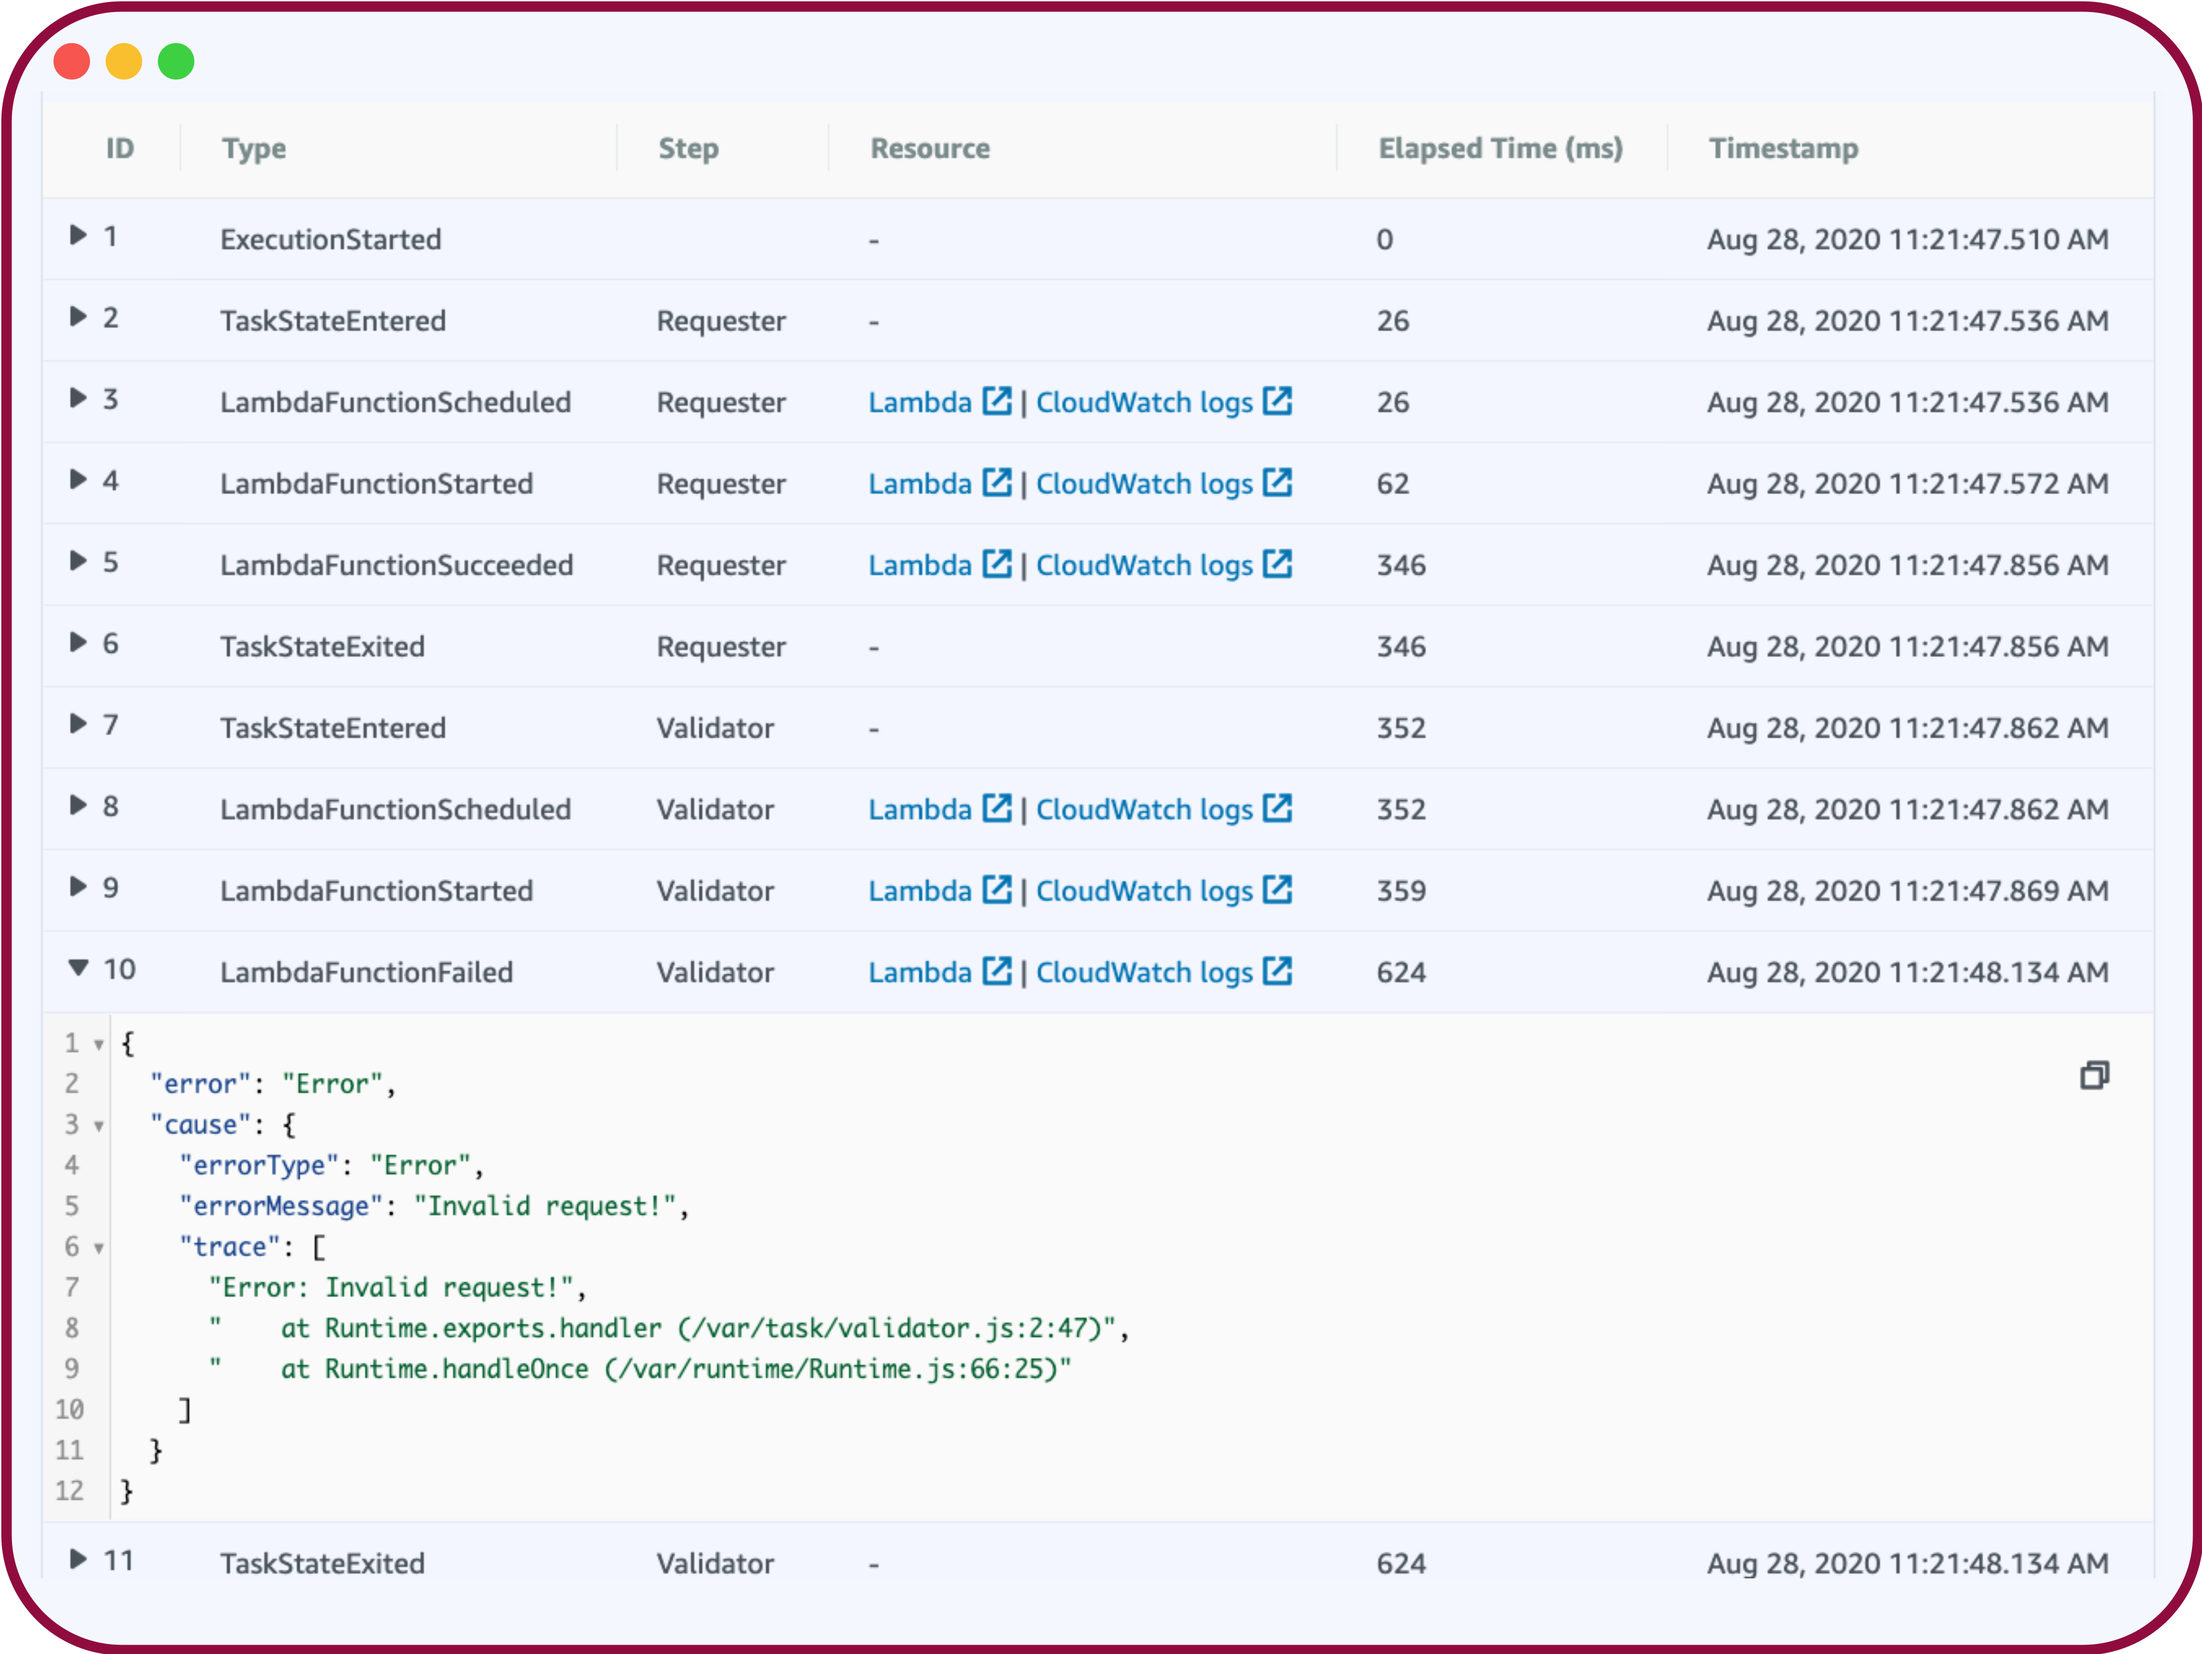
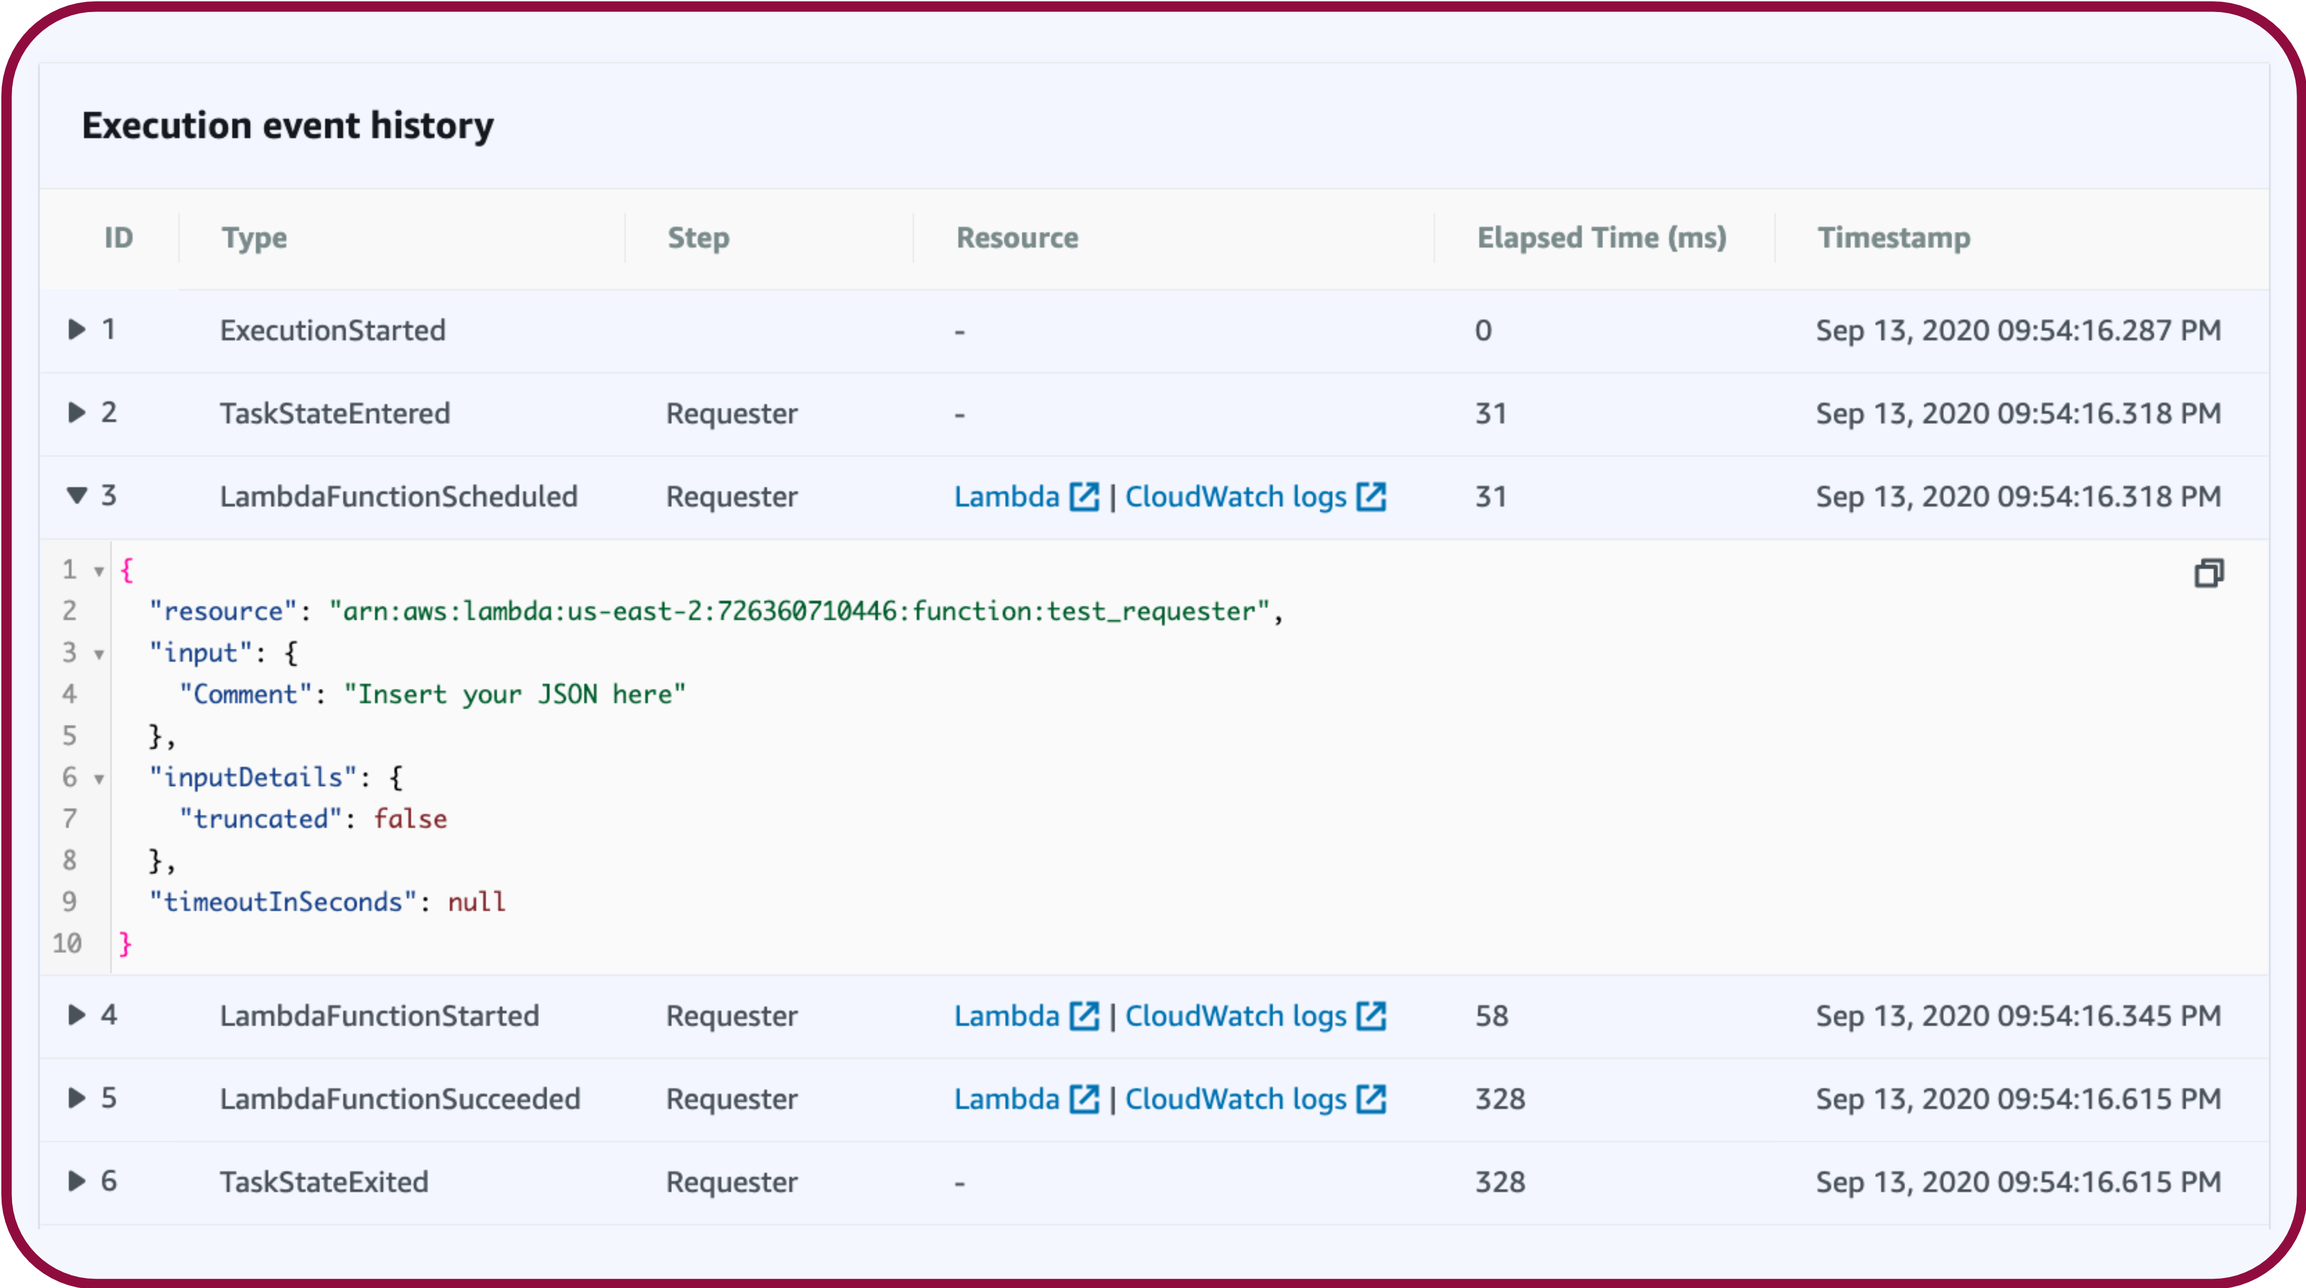
Update step functions visual workflows to exclude validator

diff --git a/index.html b/index.html
@@ -578,19 +578,7 @@
     "Requester": {
       "Type": "Task",
       "Resource": "arn:aws:lambda:REGION:ACCOUNT_ID:function:WORKFLOW_NAME_requester",
-      "Next": "Validator"
-    },
-    "Validator": {
-      "Type": "Task",
-      "Resource": "arn:aws:lambda:REGION:ACCOUNT_ID:function:WORKFLOW_NAME_validator",
-      "Next": "Manager",
-      "Catch": [
-        {
-          "ErrorEquals": ["States.ALL"],
-          "ResultPath": "$.errorInfo",
-          "Next": "Notifier"
-        }
-      ]
+      "Next": "Manager"
     },
     "Manager": {
       "Type": "Task",
@@ -615,7 +603,7 @@
     "Provisioner": {
       "Type": "Task",
       "Resource": "arn:aws:lambda:REGION:ACCOUNT_ID:function:WORKFLOW_NAME_provisioner",
-      "Next": "Notifier",
+      "Next": "AccessGranter",
       "Retry": [
         {
           "ErrorEquals": ["States.ALL"],
@@ -631,6 +619,10 @@
           "Next": "Notifier"
         }
       ]
+    },
+    "AccessGranter": {
+      "Type": "Pass",
+      "Next": "Notifier"
     },
     "Notifier": {
       "Type": "Pass",
@@ -665,6 +657,7 @@
           <div class="flex">
             <pre>
               <code class="js dark">
+//…
 "Provisioner": {
   "Type": "Task",
   "Resource": "arn:aws:lambda:REGION:ACCOUNT_ID:function:provisioner",
@@ -676,8 +669,10 @@
       "BackoffRate": 1.5,
       "MaxAttempts": 5
     }
-  ]
+  ],
+  //…
 },
+
               </code>
             </pre>
           </div>
